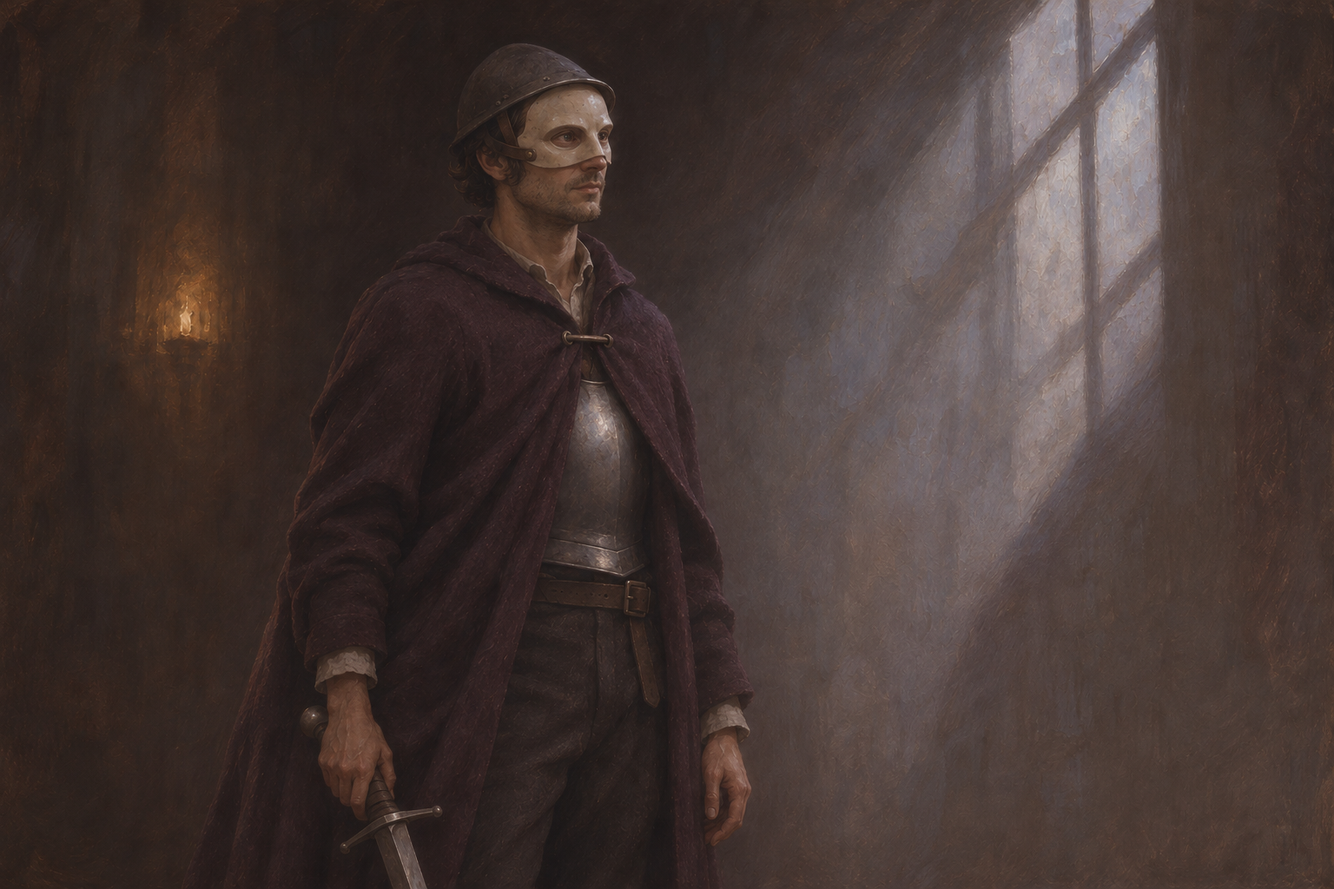
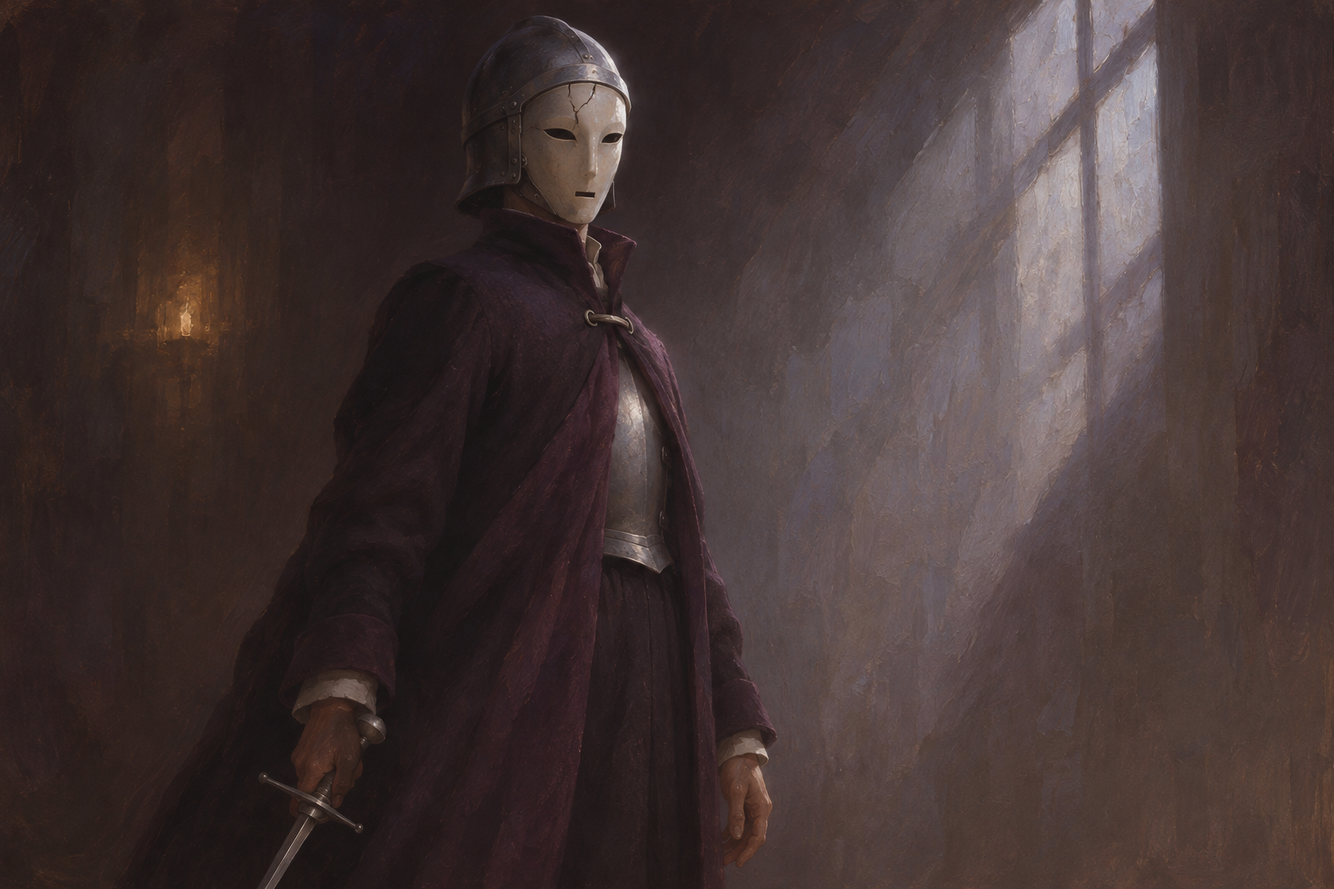
Restore full-mask porcelain retainer as final art

diff --git a/breachline/art/SET5_GALLERY.html b/breachline/art/SET5_GALLERY.html
@@ -5,4 +5,4 @@
 header,main,footer{max-width:1500px;margin:auto;padding:40px clamp(18px,4vw,64px)}
 header{padding-bottom:16px}.eyebrow{font-size:12px;letter-spacing:.2em;text-transform:uppercase;color:var(--accent)}h1{font:clamp(38px,6vw,68px)/1.1 Georgia,serif;font-weight:normal;margin:18px 0}header p{color:var(--muted);max-width:720px}nav{display:flex;flex-wrap:wrap;gap:10px;margin:28px 0 0}nav a{border:1px solid var(--line);border-radius:24px;padding:8px 15px;text-decoration:none;color:var(--ink)}nav span{color:var(--accent);margin-left:6px}nav a:hover{background:var(--panel)}
 main{padding-top:0}section{scroll-margin-top:24px;margin-top:48px}h2{font:32px Georgia,serif;border-bottom:1px solid var(--line);padding-bottom:16px}.grid{display:grid;grid-template-columns:repeat(2,minmax(0,1fr));gap:30px}article{background:var(--panel);border:1px solid var(--line);border-radius:8px;overflow:hidden}.painting{display:block;background:#20221d}.painting img{display:block;width:100%;height:auto;aspect-ratio:3/2;object-fit:contain}.caption{padding:20px}h3{font:24px/1.25 Georgia,serif;margin:0 0 8px}.caption p{color:var(--muted);margin:8px 0 16px}.downloads{display:flex;flex-wrap:wrap;justify-content:space-between;gap:10px;font-size:13px}.downloads a{overflow-wrap:anywhere}details{margin-top:20px;border-top:1px solid var(--line);padding-top:14px;font-size:14px}summary{cursor:pointer;color:var(--muted)}footer{border-top:1px solid var(--line);color:var(--muted);font-size:14px}footer a{margin-right:20px}@media(max-width:760px){.grid{grid-template-columns:1fr}header,main,footer{padding-left:18px;padding-right:18px}.caption{padding:16px}}
-</style></head><body><header><div class="eyebrow">Breachline · November 9, 2026</div><h1>Twelve revised paintings.</h1><p>Set 5, repainted from the revised briefs. Character, silhouette, material and light lead each image.</p><p>Latest changes: a more-veiled adept, a closer view of the flame blade and a simpler porcelain half visor. Brightlance retains its aggressive outdoor cast. Open any painting at full resolution.</p><nav aria-label="Alignments"><a href="#group-U">Gnosis <span>6</span></a><a href="#group-G">Genesis <span>2</span></a><a href="#group-B">Dominion <span>2</span></a><a href="#group-R">Fervor <span>1</span></a><a href="#group-N">Neutral <span>1</span></a></nav></header><main><section id="group-U"><h2>Gnosis</h2><div class="grid"><article><a class="painting" href="conclave-field-scholar.png"><img src="web/conclave-field-scholar.jpg?v=bb710ac92dde" width="768" height="512" loading="lazy" alt="Conclave field scholar — revised painting"></a><div class="caption"><h3>Conclave field scholar</h3><p>A wind-caught scholar against a luminous depth of landscape; curiosity, distance and the contrast of navy, ochre and pale stone.</p><p class="eyebrow">Current selection</p><div class="downloads"><a href="conclave-field-scholar.png">conclave-field-scholar.png</a><a href="web/conclave-field-scholar.jpg">Game JPEG</a></div><details><summary>Read the current brief</summary><p>On a narrow survey terrace high above a valley, the scholar has paused beside a flat stone with her folio open on it. One hand rests lightly on the page as she looks up across the distance; the brass-headed staff leans within reach. Her coat and loose braid catch the wind. Place her off-centre in a medium-wide view, with enough of the valley visible to make the space feel expansive, but resolve it into a few layered blue-grey shapes. A low angle of light warms her ochre sleeve and the staff&#x27;s brass prongs. Her attention and the tension between the small figure and the open air give the painting its life.</p></details></div></article><article><a class="painting" href="harmonic-wardwright.png"><img src="web/harmonic-wardwright.jpg?v=937e0842daf0" width="768" height="512" loading="lazy" alt="Harmonic wardwright — revised painting"></a><div class="caption"><h3>Harmonic wardwright</h3><p>The intimate strangeness of ordinary stones moving above an open palm, framed by convincing blue enamel, brass and a thoughtful face.</p><p class="eyebrow">Current selection</p><div class="downloads"><a href="harmonic-wardwright.png">harmonic-wardwright.png</a><a href="web/harmonic-wardwright.jpg">Game JPEG</a></div><details><summary>Read the current brief</summary><p>Return to the reference&#x27;s small orbiting stones. In a three-quarter, roughly hip-up composition, the wardwright watches two or three rough fragments slowly turn above his gauntleted palm. His arm is comfortably bent, his head tilted with absorbed attention; his other hand rests naturally. Let the uneven stones form an elegant, open rhythm beside his face. The magic is a restrained blue-violet glimmer or a few faint interrupted orbital traces, close to the stones. Soft daylight grazes his scratched blue breastplate and warm brass; a shaded plaster wall and one edge of an arch supply a simple, quiet background. Make him feel practiced and curious. The charm lies in the face, the objects&#x27; weight and their impossible suspension.</p></details></div></article><article><a class="painting" href="brightlance.png"><img src="web/brightlance.jpg?v=6ec4af27a46f" width="768" height="512" loading="lazy" alt="Brightlance — revised painting"></a><div class="caption"><h3>Brightlance</h3><p>Anger and forward force in an outdoor spellcasting portrait, with a hard blue-violet streak cutting across open dark sky.</p><p class="eyebrow">Current selection</p><div class="downloads"><a href="brightlance.png">brightlance.png</a><a href="web/brightlance.jpg">Game JPEG</a></div><details><summary>Read the current brief</summary><p>Outside on an exposed stone terrace beneath a dark, wind-torn sky, the wardwright drives a narrow blue-violet lance of light hard to the RIGHT, toward a target entirely off-screen. Show him from his right side in a medium-close three-quarter view, his torso leaning into the cast, right shoulder and gauntleted arm thrust firmly forward. His face is visibly angry and intent: brows drawn, jaw set or mouth slightly open with the effort, painted simply rather than exaggerated. His free left hand is clenched low beside him. The lance is a bright, compressed streak with sharp, torn trailing edges and a clear forward force; it exits the frame before any impact. Wind pulls at his navy coat. Cold spell-light cuts across his face, blue enamel and brass against the darker open sky; a little weathered stone below establishes the outdoor setting. Make the gesture and expression aggressive while keeping the spell a coherent lance and preserving natural anatomy.</p></details></div></article><article><a class="painting" href="woven-ward.png"><img src="web/woven-ward.jpg?v=607e2f1cd9be" width="768" height="512" loading="lazy" alt="Woven ward — revised painting"></a><div class="caption"><h3>Woven ward</h3><p>Light behaving like a delicate fabric: translucent folds against dark wood, worn brass and deep navy.</p><p class="eyebrow">Current selection</p><div class="downloads"><a href="woven-ward.png">woven-ward.png</a><a href="web/woven-ward.jpg">Game JPEG</a></div><details><summary>Read the current brief</summary><p>A close, slightly oblique still life of the accepted field loom on a worn workbench. A small length of luminous blue-violet weave hangs from its frame, turning softly into a loose fold that reveals its translucency. Let the weave&#x27;s curved edge and the angular wood create the composition. Three spools, the brass fittings and a partially visible crank establish the familiar device without giving every part equal emphasis. Cool light passes through the weave onto the bench; a quiet warm patch catches the wood and a brass corner. The navy cover and the paper pattern strip recede into softer shadow. The surrounding workshop is only implied.</p></details></div></article><article><a class="painting" href="enchanters-quench.png"><img src="web/enchanters-quench.jpg?v=6839d9e70e8c" width="768" height="512" loading="lazy" alt="Enchanter&#x27;s quench — revised painting"></a><div class="caption"><h3>Enchanter&#x27;s quench</h3><p>An absorbing arrangement of dark water, luminous steel and steam, with the contrast of warm forge spill and deep blue.</p><p class="eyebrow">Current selection</p><div class="downloads"><a href="enchanters-quench.png">enchanters-quench.png</a><a href="web/enchanters-quench.jpg">Game JPEG</a></div><details><summary>Read the current brief</summary><p>Look obliquely down into the rough stone quenching trough. A plain straight blade rests partly below the dark water, held steadily by iron tongs entering from the upper edge. The smith is present only as a simply painted hand, a forearm and a small edge of apron. The blade carries a deep blue inner light, broken by a few soft ripples; a thinning veil of steam obscures part of its shape. Keep much of the water nearly black so the steel&#x27;s colour feels rich. A small reflection of warm forge light catches the trough&#x27;s worn lip. This is a carefully observed moment in a craft, with room for stillness.</p></details></div></article><article><a class="painting" href="rime-drake.png"><img src="web/rime-drake.jpg?v=375ef076fe7d" width="768" height="512" loading="lazy" alt="Rime drake — revised painting"></a><div class="caption"><h3>Rime drake</h3><p>A lean pale animal in open winter air, with a beautiful wing silhouette and warm light passing through frost.</p><p class="eyebrow">Current selection</p><div class="downloads"><a href="rime-drake.png">rime-drake.png</a><a href="web/rime-drake.jpg">Game JPEG</a></div><details><summary>Read the current brief</summary><p>The horse-sized drake skims low over a cold lake, banking gently across the painting toward the right. View it from slightly below and to the side so its long body, backswept horns, tail and two wings form an asymmetric sweep against open air. Its four legs are naturally drawn beneath the body. Low pale-gold sun catches the thin wing membranes and frosted edges while the mottled scales fall into blue-grey shadow. A dark reflection and a few ripples below suggest its closeness to the water. One distant snowy bank supplies context; most of the setting remains broad, quiet shapes. Leave comfortable space around both wings and the tail.</p></details></div></article></div></section><section id="group-G"><h2>Genesis</h2><div class="grid"><article><a class="painting" href="thornwarden-goblin-scout.png"><img src="web/thornwarden-goblin-scout.jpg?v=ab128a19c41f" width="768" height="512" loading="lazy" alt="Thornwarden goblin scout — revised painting"></a><div class="caption"><h3>Thornwarden goblin scout</h3><p>A wiry, distinctive little figure caught in an agile weight shift among large green shapes, with a sharp note of rust-red cloth.</p><p class="eyebrow">Current selection</p><div class="downloads"><a href="thornwarden-goblin-scout.png">thornwarden-goblin-scout.png</a><a href="web/thornwarden-goblin-scout.jpg">Game JPEG</a></div><details><summary>Read the current brief</summary><p>The goblin is halfway over a low, thick bough, one foot finding a place on the far side while a hand steadies him. He has turned his head to the left, ears alert to something beyond the frame. His short bow is carried low rather than drawn. Use a medium-wide view through broad foreground fern shapes; let the felt jack, wicker buckler and rust-red capelet break up his compact silhouette. Patches of ordinary daylight catch his cheek, knuckles and mossy bark. Keep his expression intent and individual, with a little of the small goblin&#x27;s character the creator likes. The forest should feel inhabited and tangible without becoming a detailed panorama.</p></details></div></article><article><a class="painting" href="bronze-harness-alderkin.png"><img src="web/bronze-harness-alderkin.jpg?v=dbe728baefd9" width="768" height="512" loading="lazy" alt="Bronze-harness alderkin — revised painting"></a><div class="caption"><h3>Bronze-harness alderkin</h3><p>The sculptural relationship between living wood and fitted bronze, with a tall irregular silhouette emerging from a cool forest interior.</p><p class="eyebrow">Current selection</p><div class="downloads"><a href="bronze-harness-alderkin.png">bronze-harness-alderkin.png</a><a href="web/bronze-harness-alderkin.jpg">Game JPEG</a></div><details><summary>Read the current brief</summary><p>Seen in a full-body three-quarter view, the alderkin is negotiating a shallow stone step between trees, its torso turning slightly as one root-foot finds purchase. It carries its long spear loosely on a diagonal, clearly at rest. Preserve the reference&#x27;s asymmetrical braided root legs, twisting trunk and branching crown; the face is suggested through knots and the direction of the head. Broad, padded straps support the bronze chest shell without cutting into the bark. Soft grey-green woodland light leaves much of the figure in shade, while a few orange leaves and a worn bronze edge catch warmer light. Use substantial, irregular wood forms and varied restrained paint; the weight shift supplies movement without a theatrical lunge.</p></details></div></article></div></section><section id="group-B"><h2>Dominion</h2><div class="grid"><article><a class="painting" href="porcelain-visored-retainer.png"><img src="web/porcelain-visored-retainer.jpg?v=d45ee17648ed" width="768" height="512" loading="lazy" alt="Porcelain-visored retainer — revised painting"></a><div class="caption"><h3>Porcelain-visored retainer</h3><p>A believable human retainer in a simple porcelain half visor, with natural eyes and an exposed lower face warmed by restrained gallery light.</p><p class="eyebrow">Current selection</p><div class="downloads"><a href="porcelain-visored-retainer.png">porcelain-visored-retainer.png</a><a href="web/porcelain-visored-retainer.jpg">Game JPEG</a></div><details><summary>Read the current brief</summary><p>Keep the dim stone gallery, cool window light, plum wool, modest breastplate and lowered sword. Replace the unsettling complete faceplate with a close-fitting ivory porcelain half visor over the brow, upper cheeks and nose bridge. Natural eyes show through comfortable openings, and the real lower face, ordinary mouth, jaw and light stubble remain visible. Use a simple leather fastening, a modest open-faced iron cap and a relaxed collar. The man stands naturally at an angle, looking toward the window. Porcelain, steel and wool should feel worn by a real person, without a doll-face stare or theatrical menace.</p></details></div></article><article><a class="painting" href="veil-adept.png"><img src="web/veil-adept.jpg?v=1c4d00522568" width="768" height="512" loading="lazy" alt="Veil adept — revised painting"></a><div class="caption"><h3>Veil adept</h3><p>A seated woman whose expressive eyes emerge above a dark veil, with cloth and shadow merging at the edge of warm window light.</p><p class="eyebrow">Current selection</p><div class="downloads"><a href="veil-adept.png">veil-adept.png</a><a href="web/veil-adept.jpg">Game JPEG</a></div><details><summary>Read the current brief</summary><p>Keep the seated window-ledge portrait, short dark curls, wine-plum coat, forearm resting on a raised knee and divided window light. A fine dark gauzy veil covers her nose, mouth and lower face, with restrained folds leading into the collar. Her eyes and brow remain legible. The far edge of the veil and coat merge into the surrounding impossible shadow. Preserve the natural pose and hand, intimate scale and painterly lost edges.</p></details></div></article></div></section><section id="group-R"><h2>Fervor</h2><div class="grid"><article><a class="painting" href="banked-flame-blade.png"><img src="web/banked-flame-blade.jpg?v=2f303bf1ed31" width="768" height="512" loading="lazy" alt="Banked flame blade — revised painting"></a><div class="caption"><h3>Banked flame blade</h3><p>A close, dominant curve of ember-edged steel across the center of a cold blue painting; the sword, rather than its bearer, owns the frame.</p><p class="eyebrow">Current selection</p><div class="downloads"><a href="banked-flame-blade.png">banked-flame-blade.png</a><a href="web/banked-flame-blade.jpg">Game JPEG</a></div><details><summary>Read the current brief</summary><p>Bring the familiar sabre close to the picture plane, spanning almost the full width through the center from the hilt at left to the complete point at right. Its steel surface should read as a substantial painted shape with a banked orange cutting edge. Keep weapon-to-hand scale plausible. Crop the bearer to the gripping hand, rust-red cuff, a little mail and a subdued knee behind the sword. Keep a clear gap between blade and knee. Deep blue snowy woodland, a few flakes and slight steam support the weapon without competing.</p></details></div></article></div></section><section id="group-N"><h2>Neutral</h2><div class="grid"><article><a class="painting" href="stoneward-colossus.png"><img src="web/stoneward-colossus.jpg?v=c65294a726c2" width="768" height="512" loading="lazy" alt="Stoneward colossus — revised painting"></a><div class="caption"><h3>Stoneward colossus</h3><p>A monumental but believable five-metre stone figure, with blue air visible through its chest and warm light describing its great irregular planes.</p><p class="eyebrow">Current selection</p><div class="downloads"><a href="stoneward-colossus.png">stoneward-colossus.png</a><a href="web/stoneward-colossus.jpg">Game JPEG</a></div><details><summary>Read the current brief</summary><p>The colossus stands alone on an open, weathered stone terrace below a pale hillside, its body set obliquely across the composition rather than squarely blocking a route. Keep the small narrow head in its bronze collar, the heavy stone limbs, broad aged-bronze joint bands and the real arched opening through its torso. Let a patch of blue-grey distance appear through that opening. Hard late-morning light strikes a few pale ochre planes while the cavity and far side fall into deep cool shadow. A modest human-built stair cut into the terrace provides scale without a cast of tiny people. Use a wide view with open space around its silhouette and a slight head turn, so it feels like a made being whose purpose is not being explained.</p></details></div></article></div></section></main><footer><p>12 revised PNG originals · 12 game JPEGs · Latest creator-requested revisions</p><a href="ART_BRIEFS_SET5.md">Art briefs</a><a href="ART_PROMPTS_SET5.json">Prompts and generation record</a><a href="SET5_VALIDATION.json">File checks</a></footer></body></html>
+</style></head><body><header><div class="eyebrow">Breachline · November 9, 2026</div><h1>Twelve revised paintings.</h1><p>Set 5, repainted from the revised briefs. Character, silhouette, material and light lead each image.</p><p>Latest selections: a more-veiled adept, a closer view of the flame blade and the restored full-mask porcelain retainer, selected as final. Brightlance retains its aggressive outdoor cast. Open any painting at full resolution.</p><nav aria-label="Alignments"><a href="#group-U">Gnosis <span>6</span></a><a href="#group-G">Genesis <span>2</span></a><a href="#group-B">Dominion <span>2</span></a><a href="#group-R">Fervor <span>1</span></a><a href="#group-N">Neutral <span>1</span></a></nav></header><main><section id="group-U"><h2>Gnosis</h2><div class="grid"><article><a class="painting" href="conclave-field-scholar.png"><img src="web/conclave-field-scholar.jpg?v=bb710ac92dde" width="768" height="512" loading="lazy" alt="Conclave field scholar — revised painting"></a><div class="caption"><h3>Conclave field scholar</h3><p>A wind-caught scholar against a luminous depth of landscape; curiosity, distance and the contrast of navy, ochre and pale stone.</p><p class="eyebrow">Current selection</p><div class="downloads"><a href="conclave-field-scholar.png">conclave-field-scholar.png</a><a href="web/conclave-field-scholar.jpg">Game JPEG</a></div><details><summary>Read the current brief</summary><p>On a narrow survey terrace high above a valley, the scholar has paused beside a flat stone with her folio open on it. One hand rests lightly on the page as she looks up across the distance; the brass-headed staff leans within reach. Her coat and loose braid catch the wind. Place her off-centre in a medium-wide view, with enough of the valley visible to make the space feel expansive, but resolve it into a few layered blue-grey shapes. A low angle of light warms her ochre sleeve and the staff&#x27;s brass prongs. Her attention and the tension between the small figure and the open air give the painting its life.</p></details></div></article><article><a class="painting" href="harmonic-wardwright.png"><img src="web/harmonic-wardwright.jpg?v=937e0842daf0" width="768" height="512" loading="lazy" alt="Harmonic wardwright — revised painting"></a><div class="caption"><h3>Harmonic wardwright</h3><p>The intimate strangeness of ordinary stones moving above an open palm, framed by convincing blue enamel, brass and a thoughtful face.</p><p class="eyebrow">Current selection</p><div class="downloads"><a href="harmonic-wardwright.png">harmonic-wardwright.png</a><a href="web/harmonic-wardwright.jpg">Game JPEG</a></div><details><summary>Read the current brief</summary><p>Return to the reference&#x27;s small orbiting stones. In a three-quarter, roughly hip-up composition, the wardwright watches two or three rough fragments slowly turn above his gauntleted palm. His arm is comfortably bent, his head tilted with absorbed attention; his other hand rests naturally. Let the uneven stones form an elegant, open rhythm beside his face. The magic is a restrained blue-violet glimmer or a few faint interrupted orbital traces, close to the stones. Soft daylight grazes his scratched blue breastplate and warm brass; a shaded plaster wall and one edge of an arch supply a simple, quiet background. Make him feel practiced and curious. The charm lies in the face, the objects&#x27; weight and their impossible suspension.</p></details></div></article><article><a class="painting" href="brightlance.png"><img src="web/brightlance.jpg?v=6ec4af27a46f" width="768" height="512" loading="lazy" alt="Brightlance — revised painting"></a><div class="caption"><h3>Brightlance</h3><p>Anger and forward force in an outdoor spellcasting portrait, with a hard blue-violet streak cutting across open dark sky.</p><p class="eyebrow">Current selection</p><div class="downloads"><a href="brightlance.png">brightlance.png</a><a href="web/brightlance.jpg">Game JPEG</a></div><details><summary>Read the current brief</summary><p>Outside on an exposed stone terrace beneath a dark, wind-torn sky, the wardwright drives a narrow blue-violet lance of light hard to the RIGHT, toward a target entirely off-screen. Show him from his right side in a medium-close three-quarter view, his torso leaning into the cast, right shoulder and gauntleted arm thrust firmly forward. His face is visibly angry and intent: brows drawn, jaw set or mouth slightly open with the effort, painted simply rather than exaggerated. His free left hand is clenched low beside him. The lance is a bright, compressed streak with sharp, torn trailing edges and a clear forward force; it exits the frame before any impact. Wind pulls at his navy coat. Cold spell-light cuts across his face, blue enamel and brass against the darker open sky; a little weathered stone below establishes the outdoor setting. Make the gesture and expression aggressive while keeping the spell a coherent lance and preserving natural anatomy.</p></details></div></article><article><a class="painting" href="woven-ward.png"><img src="web/woven-ward.jpg?v=607e2f1cd9be" width="768" height="512" loading="lazy" alt="Woven ward — revised painting"></a><div class="caption"><h3>Woven ward</h3><p>Light behaving like a delicate fabric: translucent folds against dark wood, worn brass and deep navy.</p><p class="eyebrow">Current selection</p><div class="downloads"><a href="woven-ward.png">woven-ward.png</a><a href="web/woven-ward.jpg">Game JPEG</a></div><details><summary>Read the current brief</summary><p>A close, slightly oblique still life of the accepted field loom on a worn workbench. A small length of luminous blue-violet weave hangs from its frame, turning softly into a loose fold that reveals its translucency. Let the weave&#x27;s curved edge and the angular wood create the composition. Three spools, the brass fittings and a partially visible crank establish the familiar device without giving every part equal emphasis. Cool light passes through the weave onto the bench; a quiet warm patch catches the wood and a brass corner. The navy cover and the paper pattern strip recede into softer shadow. The surrounding workshop is only implied.</p></details></div></article><article><a class="painting" href="enchanters-quench.png"><img src="web/enchanters-quench.jpg?v=6839d9e70e8c" width="768" height="512" loading="lazy" alt="Enchanter&#x27;s quench — revised painting"></a><div class="caption"><h3>Enchanter&#x27;s quench</h3><p>An absorbing arrangement of dark water, luminous steel and steam, with the contrast of warm forge spill and deep blue.</p><p class="eyebrow">Current selection</p><div class="downloads"><a href="enchanters-quench.png">enchanters-quench.png</a><a href="web/enchanters-quench.jpg">Game JPEG</a></div><details><summary>Read the current brief</summary><p>Look obliquely down into the rough stone quenching trough. A plain straight blade rests partly below the dark water, held steadily by iron tongs entering from the upper edge. The smith is present only as a simply painted hand, a forearm and a small edge of apron. The blade carries a deep blue inner light, broken by a few soft ripples; a thinning veil of steam obscures part of its shape. Keep much of the water nearly black so the steel&#x27;s colour feels rich. A small reflection of warm forge light catches the trough&#x27;s worn lip. This is a carefully observed moment in a craft, with room for stillness.</p></details></div></article><article><a class="painting" href="rime-drake.png"><img src="web/rime-drake.jpg?v=375ef076fe7d" width="768" height="512" loading="lazy" alt="Rime drake — revised painting"></a><div class="caption"><h3>Rime drake</h3><p>A lean pale animal in open winter air, with a beautiful wing silhouette and warm light passing through frost.</p><p class="eyebrow">Current selection</p><div class="downloads"><a href="rime-drake.png">rime-drake.png</a><a href="web/rime-drake.jpg">Game JPEG</a></div><details><summary>Read the current brief</summary><p>The horse-sized drake skims low over a cold lake, banking gently across the painting toward the right. View it from slightly below and to the side so its long body, backswept horns, tail and two wings form an asymmetric sweep against open air. Its four legs are naturally drawn beneath the body. Low pale-gold sun catches the thin wing membranes and frosted edges while the mottled scales fall into blue-grey shadow. A dark reflection and a few ripples below suggest its closeness to the water. One distant snowy bank supplies context; most of the setting remains broad, quiet shapes. Leave comfortable space around both wings and the tail.</p></details></div></article></div></section><section id="group-G"><h2>Genesis</h2><div class="grid"><article><a class="painting" href="thornwarden-goblin-scout.png"><img src="web/thornwarden-goblin-scout.jpg?v=ab128a19c41f" width="768" height="512" loading="lazy" alt="Thornwarden goblin scout — revised painting"></a><div class="caption"><h3>Thornwarden goblin scout</h3><p>A wiry, distinctive little figure caught in an agile weight shift among large green shapes, with a sharp note of rust-red cloth.</p><p class="eyebrow">Current selection</p><div class="downloads"><a href="thornwarden-goblin-scout.png">thornwarden-goblin-scout.png</a><a href="web/thornwarden-goblin-scout.jpg">Game JPEG</a></div><details><summary>Read the current brief</summary><p>The goblin is halfway over a low, thick bough, one foot finding a place on the far side while a hand steadies him. He has turned his head to the left, ears alert to something beyond the frame. His short bow is carried low rather than drawn. Use a medium-wide view through broad foreground fern shapes; let the felt jack, wicker buckler and rust-red capelet break up his compact silhouette. Patches of ordinary daylight catch his cheek, knuckles and mossy bark. Keep his expression intent and individual, with a little of the small goblin&#x27;s character the creator likes. The forest should feel inhabited and tangible without becoming a detailed panorama.</p></details></div></article><article><a class="painting" href="bronze-harness-alderkin.png"><img src="web/bronze-harness-alderkin.jpg?v=dbe728baefd9" width="768" height="512" loading="lazy" alt="Bronze-harness alderkin — revised painting"></a><div class="caption"><h3>Bronze-harness alderkin</h3><p>The sculptural relationship between living wood and fitted bronze, with a tall irregular silhouette emerging from a cool forest interior.</p><p class="eyebrow">Current selection</p><div class="downloads"><a href="bronze-harness-alderkin.png">bronze-harness-alderkin.png</a><a href="web/bronze-harness-alderkin.jpg">Game JPEG</a></div><details><summary>Read the current brief</summary><p>Seen in a full-body three-quarter view, the alderkin is negotiating a shallow stone step between trees, its torso turning slightly as one root-foot finds purchase. It carries its long spear loosely on a diagonal, clearly at rest. Preserve the reference&#x27;s asymmetrical braided root legs, twisting trunk and branching crown; the face is suggested through knots and the direction of the head. Broad, padded straps support the bronze chest shell without cutting into the bark. Soft grey-green woodland light leaves much of the figure in shade, while a few orange leaves and a worn bronze edge catch warmer light. Use substantial, irregular wood forms and varied restrained paint; the weight shift supplies movement without a theatrical lunge.</p></details></div></article></div></section><section id="group-B"><h2>Dominion</h2><div class="grid"><article><a class="painting" href="porcelain-visored-retainer.png"><img src="web/porcelain-visored-retainer.jpg?v=0218f9f4fc94" width="768" height="512" loading="lazy" alt="Porcelain-visored retainer — revised painting"></a><div class="caption"><h3>Porcelain-visored retainer</h3><p>An austere, unsettling portrait built around the accepted mask&#x27;s proportions, fine tailoring and a narrow passage of light.</p><p class="eyebrow">Final selection</p><div class="downloads"><a href="porcelain-visored-retainer.png">porcelain-visored-retainer.png</a><a href="web/porcelain-visored-retainer.jpg">Game JPEG</a></div><details><summary>Read the current brief</summary><p>Return closely to the accepted reference&#x27;s human proportions, understated steel helmet and pale ceramic faceplate. Frame the retainer from about the upper thigh in an empty, dim gallery, with the shoulders turned away slightly and the head angled back toward a strip of cool window light. The dark plum coat hangs with believable weight over the modest half-cuirass; a relaxed hand and the slender estoc can sit low in the composition without becoming a threatening gesture. Light picks out one plane of the mask, its fine existing crack and a small edge of steel, while the opposite side is lost in deep plum and brown shadow. One wall plane and a soft distant warm reflection are sufficient setting. Let the unreadable face, the tilt of the head and the material contrasts create its presence.</p></details></div></article><article><a class="painting" href="veil-adept.png"><img src="web/veil-adept.jpg?v=1c4d00522568" width="768" height="512" loading="lazy" alt="Veil adept — revised painting"></a><div class="caption"><h3>Veil adept</h3><p>A seated woman whose expressive eyes emerge above a dark veil, with cloth and shadow merging at the edge of warm window light.</p><p class="eyebrow">Current selection</p><div class="downloads"><a href="veil-adept.png">veil-adept.png</a><a href="web/veil-adept.jpg">Game JPEG</a></div><details><summary>Read the current brief</summary><p>Keep the seated window-ledge portrait, short dark curls, wine-plum coat, forearm resting on a raised knee and divided window light. A fine dark gauzy veil covers her nose, mouth and lower face, with restrained folds leading into the collar. Her eyes and brow remain legible. The far edge of the veil and coat merge into the surrounding impossible shadow. Preserve the natural pose and hand, intimate scale and painterly lost edges.</p></details></div></article></div></section><section id="group-R"><h2>Fervor</h2><div class="grid"><article><a class="painting" href="banked-flame-blade.png"><img src="web/banked-flame-blade.jpg?v=2f303bf1ed31" width="768" height="512" loading="lazy" alt="Banked flame blade — revised painting"></a><div class="caption"><h3>Banked flame blade</h3><p>A close, dominant curve of ember-edged steel across the center of a cold blue painting; the sword, rather than its bearer, owns the frame.</p><p class="eyebrow">Current selection</p><div class="downloads"><a href="banked-flame-blade.png">banked-flame-blade.png</a><a href="web/banked-flame-blade.jpg">Game JPEG</a></div><details><summary>Read the current brief</summary><p>Bring the familiar sabre close to the picture plane, spanning almost the full width through the center from the hilt at left to the complete point at right. Its steel surface should read as a substantial painted shape with a banked orange cutting edge. Keep weapon-to-hand scale plausible. Crop the bearer to the gripping hand, rust-red cuff, a little mail and a subdued knee behind the sword. Keep a clear gap between blade and knee. Deep blue snowy woodland, a few flakes and slight steam support the weapon without competing.</p></details></div></article></div></section><section id="group-N"><h2>Neutral</h2><div class="grid"><article><a class="painting" href="stoneward-colossus.png"><img src="web/stoneward-colossus.jpg?v=c65294a726c2" width="768" height="512" loading="lazy" alt="Stoneward colossus — revised painting"></a><div class="caption"><h3>Stoneward colossus</h3><p>A monumental but believable five-metre stone figure, with blue air visible through its chest and warm light describing its great irregular planes.</p><p class="eyebrow">Current selection</p><div class="downloads"><a href="stoneward-colossus.png">stoneward-colossus.png</a><a href="web/stoneward-colossus.jpg">Game JPEG</a></div><details><summary>Read the current brief</summary><p>The colossus stands alone on an open, weathered stone terrace below a pale hillside, its body set obliquely across the composition rather than squarely blocking a route. Keep the small narrow head in its bronze collar, the heavy stone limbs, broad aged-bronze joint bands and the real arched opening through its torso. Let a patch of blue-grey distance appear through that opening. Hard late-morning light strikes a few pale ochre planes while the cavity and far side fall into deep cool shadow. A modest human-built stair cut into the terrace provides scale without a cast of tiny people. Use a wide view with open space around its silhouette and a slight head turn, so it feels like a made being whose purpose is not being explained.</p></details></div></article></div></section></main><footer><p>12 revised PNG originals · 12 game JPEGs · Latest creator-requested revisions</p><a href="ART_BRIEFS_SET5.md">Art briefs</a><a href="ART_PROMPTS_SET5.json">Prompts and generation record</a><a href="SET5_VALIDATION.json">File checks</a></footer></body></html>

diff --git a/.claude/skills/art-direction/SKILL.md b/.claude/skills/art-direction/SKILL.md
@@ -11,7 +11,7 @@ The creator's latest feedback and the approved art direction take precedence ove
 
 Preserve the intended subject, established identity and lore unless the creator changes them. Card mechanics remain in the design records; they do not prescribe the scene, pose or visible action. Specific creator changes also override those details, as with the Cinder berserker's male redesign. Do not use an old brief or historical prompt to undo later feedback.
 
-Current workflow (2026-11-09): Set 4 feedback remains recorded below and the retained Set 3 collection remains finalized. The creator approved all twelve rewritten Set 5 briefs and requested generation. All twelve revision 2 paintings are saved under the existing filenames. The creator requested committing the set after making the adept more veiled, the sword more prominent and the porcelain retainer less weird; those edits and the angrier outdoor Brightlance are now included. The first Set 5 batch is superseded as visual direction. For the next batch, read this skill, the setting, accepted references and current briefs; audit current assets rather than trusting old counts. The creator welcomes a full batch together when generation is requested.
+Current workflow (2026-11-09): Set 4 feedback remains recorded below and the retained Set 3 collection remains finalized. The creator approved all twelve rewritten Set 5 briefs and requested generation. All twelve revision 2 paintings are saved under the existing filenames. The creator requested committing the set after making the adept more veiled, the sword more prominent and the porcelain retainer less weird. The adept and blade edits and the angrier outdoor Brightlance are retained. The creator subsequently selected the previous full-mask porcelain retainer as final, superseding the half-visor edit. The first Set 5 batch is superseded as visual direction. For the next batch, read this skill, the setting, accepted references and current briefs; audit current assets rather than trusting old counts. The creator welcomes a full batch together when generation is requested.
 
 ## Visual appeal comes first (creator correction, 2026-11-09)
 
@@ -57,14 +57,14 @@ For standalone world concept art, use the setting and accumulated preferences wi
 
 ## Set 5 review and rewritten briefs (2026-11-09)
 
-The creator rejects the batch's emphasis on demonstrating abilities. All twelve briefs and their generation prompts have been rewritten in `breachline/art/ART_BRIEFS_SET5.md` and `breachline/art/ART_PROMPTS_SET5.json` before further image generation. The creator subsequently approved these revised briefs and requested the whole batch. All twelve revision 2 paintings are generated. The creator then requested three follow-up edits and a commit of the set; the updated presentations are recorded below. This does not establish new lore. Historical revision 1 prompts remain records of the superseded batch.
+The creator rejects the batch's emphasis on demonstrating abilities. All twelve briefs and their generation prompts have been rewritten in `breachline/art/ART_BRIEFS_SET5.md` and `breachline/art/ART_PROMPTS_SET5.json` before further image generation. The creator subsequently approved these revised briefs and requested the whole batch. All twelve revision 2 paintings are generated. The creator then requested three follow-up edits and a commit of the set, and subsequently selected the previous full-mask porcelain retainer as final; the current presentations are recorded below. This does not establish new lore. Historical revision 1 prompts remain records of the superseded batch.
 
 - **Conclave field scholar:** no required zap. Her identity and a compelling painting are sufficient.
 - **Harmonic wardwright:** favour the accepted reference's small twirling/orbiting stones over the exaggerated explosion and its victims.
 - **Brightlance — latest follow-up:** the creator wants the caster outside, visibly angrier, with a more aggressive gesture and spell. The lance still travels to an off-screen target; the hit and its consequences remain outside the frame. The outdoor revision is included in the selected set. This card-specific intensity does not change the wardwright unit's quieter orbiting-stone direction.
 - **Woven ward:** do not show the glowing material being put on a person. Its beauty, the loom and the relationship of craft and magic can carry the painting.
 - **Veil adept — latest follow-up:** make her more veiled. The current revision covers her lower face with fine dark fabric merging into the existing shadow while preserving her eyes, seated pose and window light. The fabric treatment is this image's interpretation, not a requirement for all shadow magic. She still need not strut through a crowd to prove concealment.
-- **Porcelain-visored retainer — latest follow-up:** the second portrait is still disliked; make him less weird. Replace the uncanny full doll-face presentation with a simpler porcelain half visor, visible natural eyes and lower face, ordinary human proportions and relaxed bearing. The half visor is the selected design interpretation and overrides the older full cracked-mask continuity. Keep the dim gallery and restrained materials. No staged guarding, noble or discarded companion's mask.
+- **Porcelain-visored retainer — final selection, 2026-11-09:** the creator selected the second-to-last painting, before the half-visor edit, as final. Restore and preserve the complete pale porcelain mask, fine crack, steel helmet, plum coat and dim window-lit gallery exactly as shown in the selected revision 2 image. This latest choice overrides the earlier rejection and the request that led to the half visor. Do not regenerate or replace it unless asked. The selected image is recorded in CARD_ART_FINAL.json and ART_PROMPTS_SET5.json.
 - **Banked flame blade — latest follow-up:** make the sword even more prominent in frame. Center the full blade close to the picture plane and crop the bearer to a supporting hand, cuff and knee; keep weapon-to-hand scale believable and the point visible.
 - **Bronze-harness alderkin:** the generated painting is cartoonish. Correct the entire scene's form, expression, light and rendering, with believable living-tree anatomy. This does not revoke the earlier permission for alderkin to fight.
 - **Stoneward colossus:** its presence does not require sheltering people or blocking arrows. Choose a composition around its form, material, scale and setting.

diff --git a/breachline/art/ART_BRIEFS_SET5.md b/breachline/art/ART_BRIEFS_SET5.md
@@ -2,7 +2,7 @@
 
 12 illustrations for the proposed subjects numbered 31–42 in [CARD_PROPOSALS.md](../CARD_PROPOSALS.md).
 
-**Revision 2 — 2026-11-09. All twelve paintings generated; creator requested the set be committed after three final revisions.** Current files include the angry outdoor Brightlance, more-veiled adept, larger sword composition and less uncanny porcelain half-visored retainer. Card rules are unchanged.
+**Revision 2 — 2026-11-09. All twelve paintings generated; creator requested the set be committed after three final revisions.** Current files include the angry outdoor Brightlance, more-veiled adept, larger sword composition and creator-selected final full-mask porcelain retainer. Card rules are unchanged.
 
 ## What these paintings are for
 
@@ -19,7 +19,7 @@ Each brief below states a visual aim, preserves the accepted subject and propose
 3. Attach the accepted references listed for the subject. Preserve their identity, proportions, kit and material character. The first Set 5 batch is not a composition or style reference for replacements.
 4. The revision 2 pass is complete: each heading has a 1536 × 1024 landscape PNG and a matching 768 × 512 JPEG in the web/ folder. These replace revision 1 under the same filenames. Future changes should follow the creator's next feedback; do not regenerate this completed pass solely because historical prompts remain in the record.
 5. Use sunmane-lancer.png for painted material quality only, not as a pose, palette or setting template. No frames, lettering, logos or watermarks.
-6. Keep [CARD_ART_FINAL.json](CARD_ART_FINAL.json) for creator-approved selections. No current Set 5 image was promoted by this review.
+6. Keep [CARD_ART_FINAL.json](CARD_ART_FINAL.json) for creator-approved selections. The porcelain retainer is explicitly finalized there; this does not promote the other Set 5 paintings.
 
 [SET5_GALLERY.html](SET5_GALLERY.html) shows the twelve current revision 2 paintings with their briefs. [SET5_VALIDATION.json](SET5_VALIDATION.json) records file checks, not artistic approval.
 
@@ -150,15 +150,17 @@ Seen in a full-body three-quarter view, the alderkin is negotiating a shallow st
 
 ### Porcelain-visored retainer: porcelain-visored-retainer.png
 
-**Visual aim:** A believable human retainer in a simple porcelain half visor, with natural eyes and an exposed lower face warmed by restrained gallery light.
+**Final selection — 2026-11-09:** The creator selected the second-to-last painting: the full porcelain mask in the dim gallery. Preserve this exact image; the later half-visor attempt is superseded.
+
+**Visual aim:** An austere, unsettling portrait built around the accepted mask's proportions, fine tailoring and a narrow passage of light.
 
 **Accepted references:** `reference-library-2026-11-06/character-kits-2026-11-08/06-porcelain-visored-retainer.png` (continuity for this character's mask, helmet, coat and estoc)
 
-**Keep:** Porcelain protection, dark plum coat, modest steel breastplate and narrow sword remain. The latest request overrides the old full cracked faceplate: use a plain half visor with visible human eyes and lower face.
+**Keep:** The pale ceramic faceplate with its hairline crack over a steel sallet-like helmet, the dark plum long coat, the half-cuirass and the narrow estoc.
 
-Keep the dim stone gallery, cool window light, plum wool, modest breastplate and lowered sword. Replace the unsettling complete faceplate with a close-fitting ivory porcelain half visor over the brow, upper cheeks and nose bridge. Natural eyes show through comfortable openings, and the real lower face, ordinary mouth, jaw and light stubble remain visible. Use a simple leather fastening, a modest open-faced iron cap and a relaxed collar. The man stands naturally at an angle, looking toward the window. Porcelain, steel and wool should feel worn by a real person, without a doll-face stare or theatrical menace.
+Return closely to the accepted reference's human proportions, understated steel helmet and pale ceramic faceplate. Frame the retainer from about the upper thigh in an empty, dim gallery, with the shoulders turned away slightly and the head angled back toward a strip of cool window light. The dark plum coat hangs with believable weight over the modest half-cuirass; a relaxed hand and the slender estoc can sit low in the composition without becoming a threatening gesture. Light picks out one plane of the mask, its fine existing crack and a small edge of steel, while the opposite side is lost in deep plum and brown shadow. One wall plane and a soft distant warm reflection are sufficient setting. Let the unreadable face, the tilt of the head and the material contrasts create its presence.
 
-**Avoid in this painting:** No full doll-face mask, empty black eye slits, carved mouth, pointed chin, conspicuous crack, towering helmet, mannequin posture, giant armour or theatrical ornament. No guarding scene, noble or spare mask.
+**Avoid in this painting:** No raised stop-hand, guarded noble, blocked doorway, fallen companion, spare mask or broken-mask prop. No toy-like armour, friendly cartoon face or exaggerated theatrical menace.
 
 ### Veil adept: veil-adept.png
 
